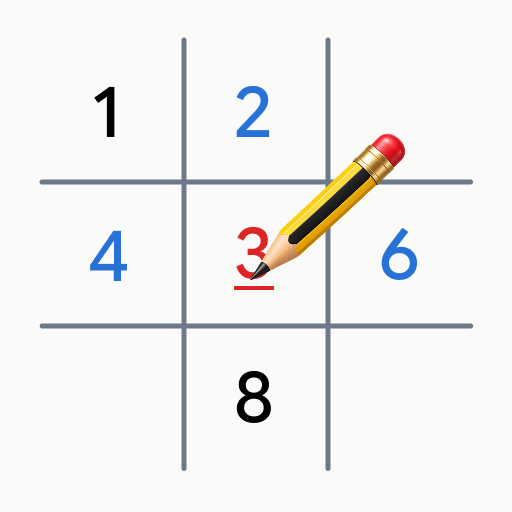
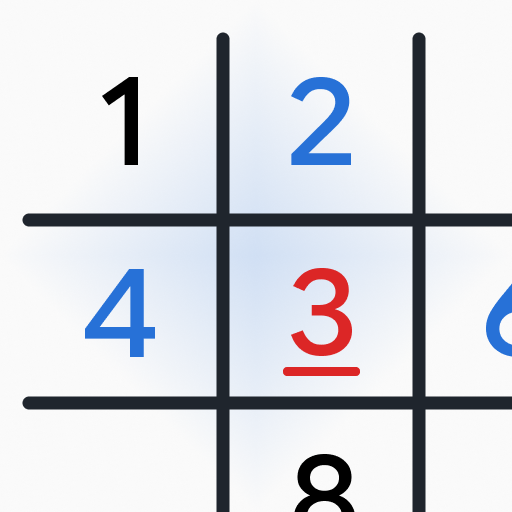
fix(web): improve app updates and save recovery
- activate new service workers immediately
- reload once after a successful web update
- retry transient save-loading failures
- recover from the previous validated snapshot
- add regression tests and update documentation

Changed region(s): [[0.0312, 0.0625, 1.0, 1.0]]

diff --git a/lib/features/privacy/presentation/privacy_policy_page.dart b/lib/features/privacy/presentation/privacy_policy_page.dart
@@ -106,11 +106,11 @@ final class _PrivacyPolicyPageState() extends State<PrivacyPolicyPage> {
                         ),
                         _PolicySection(
                           title: '5. Native app storage and permissions',
-                          body: 'Sudoku stores one versioned save snapshot through the shared_preferences package. On Android and Windows, that snapshot is kept in application storage managed by the operating system. It contains the locally saved game and preference information described above. It is not a remote database and is not synchronized between devices.\n\nThe Android release manifest requests no Android permissions, including no Internet, location, contacts, camera, microphone, photos, advertising identifier, or broad file-storage permission. Android automatic backup is disabled. Development and profile builds may use Internet access for Flutter development tooling; that permission is not part of the distributed release configuration.\n\nSudoku does not read the clipboard. If you explicitly copy selectable policy text, the operating system or browser handles that copy action. Optional haptic feedback asks the operating system to produce a vibration response but does not provide sensor data to Sudoku.',
+                          body: 'Sudoku stores a versioned current save snapshot and the previous validated recovery snapshot through the shared_preferences package. On Android and Windows, those snapshots are kept in application storage managed by the operating system. They contain the locally saved game and preference information described above. They are not a remote database and are not synchronized between devices.\n\nThe Android release manifest requests no Android permissions, including no Internet, location, contacts, camera, microphone, photos, advertising identifier, or broad file-storage permission. Android automatic backup is disabled. Development and profile builds may use Internet access for Flutter development tooling; that permission is not part of the distributed release configuration.\n\nSudoku does not read the clipboard. If you explicitly copy selectable policy text, the operating system or browser handles that copy action. Optional haptic feedback asks the operating system to produce a vibration response but does not provide sensor data to Sudoku.',
                         ),
                         _PolicySection(
                           title: '6. Web storage and offline operation',
-                          body: 'The web version stores the save snapshot in browser local storage. It also uses the browser\'s Cache Storage and a service worker to cache the compiled Flutter app, puzzle worker, fonts, icons, and other static files. This allows the app to work offline after a successful online visit. The cached app files are not a user profile.\n\nPuzzles are generated locally in a dedicated web worker. Requests sent between the page and that worker remain inside your browser and are not sent to a puzzle server. Sudoku does not add analytics scripts, advertising scripts, tracking pixels, social-media SDKs, or its own cookies. The release build hosts its app resources under the same GitHub Pages site rather than loading runtime resources from an external CDN.\n\nBrowser storage is controlled by your browser. It may be limited, evicted, cleared, exposed to browser extensions, or included in device or browser-profile backups according to settings outside Sudoku\'s control. Multiple open tabs are not synchronized and may overwrite the same local save.',
+                          body: 'The web version stores the current save snapshot and its previous validated recovery copy in browser local storage. It also uses the browser\'s Cache Storage and a service worker to cache the compiled Flutter app, puzzle worker, fonts, icons, and other static files. This allows the app to work offline after a successful online visit. The cached app files are not a user profile.\n\nPuzzles are generated locally in a dedicated web worker. Requests sent between the page and that worker remain inside your browser and are not sent to a puzzle server. Sudoku does not add analytics scripts, advertising scripts, tracking pixels, social-media SDKs, or its own cookies. The release build hosts its app resources under the same GitHub Pages site rather than loading runtime resources from an external CDN.\n\nBrowser storage is controlled by your browser. It may be limited, evicted, cleared, exposed to browser extensions, or included in device or browser-profile backups according to settings outside Sudoku\'s control. Multiple open tabs are not synchronized and may overwrite the same local save.',
                         ),
                         _PolicySection(
                           title: '7. GitHub Pages and web-request data',

diff --git a/lib/features/game/data/game_repository.dart b/lib/features/game/data/game_repository.dart
@@ -11,13 +11,24 @@ abstract interface class SnapshotStore() {
   Future<void> write(String value);
 }
 
+abstract interface class RecoverableSnapshotStore() implements SnapshotStore {
+  Future<String?> readRecovery();
+  Future<void> writeRecovery(String value);
+}
+
 final class PreferencesSnapshotStore(final SharedPreferencesAsync preferences)
-    implements SnapshotStore {
+    implements RecoverableSnapshotStore {
   static const key = 'sudoku.snapshot.v1';
+  static const recoveryKey = 'sudoku.snapshot.recovery.v1';
   @override
   Future<String?> read() => preferences.getString(key);
   @override
   Future<void> write(String value) => preferences.setString(key, value);
+  @override
+  Future<String?> readRecovery() => preferences.getString(recoveryKey);
+  @override
+  Future<void> writeRecovery(String value) =>
+      preferences.setString(recoveryKey, value);
 }
 
 final class const GameResult(
@@ -102,16 +113,65 @@ final class SavedGames({
 
 final class GameRepository(final SnapshotStore store) {
   Future<void> _pending = Future.value();
+  String? _lastKnownGood;
+
   Future<SavedGames> load() async {
-    final raw = await store.read();
-    return raw == null ? SavedGames() : SavedGames.decode(raw);
+    Object? primaryError;
+    StackTrace? primaryStackTrace;
+    try {
+      final raw = await _readWithRetry(store.read);
+      if (raw == null) return SavedGames();
+      final games = SavedGames.decode(raw);
+      _lastKnownGood = raw;
+      return games;
+    } catch (error, stackTrace) {
+      primaryError = error;
+      primaryStackTrace = stackTrace;
+    }
+
+    if (store case final RecoverableSnapshotStore recoverable) {
+      try {
+        final raw = await _readWithRetry(recoverable.readRecovery);
+        if (raw != null) {
+          final games = SavedGames.decode(raw);
+          _lastKnownGood = raw;
+          return games;
+        }
+      } catch (_) {
+        // Report the primary failure when neither validated copy can be loaded.
+      }
+    }
+    Error.throwWithStackTrace(primaryError, primaryStackTrace);
   }
 
   Future<void> save(SavedGames games) {
     final snapshot = games.encode();
     // Serialize writes. A failed write must not poison subsequent retries.
-    final result = _pending.then((_) => store.write(snapshot));
+    final result = _pending.then((_) async {
+      if (store case final RecoverableSnapshotStore recoverable) {
+        if (_lastKnownGood case final previous?) {
+          await recoverable.writeRecovery(previous);
+        }
+      }
+      await store.write(snapshot);
+      _lastKnownGood = snapshot;
+    });
     _pending = result.then<void>((_) {}, onError: (Object _, StackTrace _) {});
     return result;
+  }
+
+  static Future<String?> _readWithRetry(Future<String?> Function() read) async {
+    Object? lastError;
+    StackTrace? lastStackTrace;
+    for (var attempt = 0; attempt < 3; attempt++) {
+      try {
+        return await read();
+      } catch (error, stackTrace) {
+        lastError = error;
+        lastStackTrace = stackTrace;
+        if (attempt < 2) await Future<void>.delayed(Duration.zero);
+      }
+    }
+    Error.throwWithStackTrace(lastError!, lastStackTrace!);
   }
 }

diff --git a/test/storage_controller_test.dart b/test/storage_controller_test.dart
@@ -29,6 +29,30 @@ final class MemoryStore() implements SnapshotStore {
   }
 }
 
+final class RecoverableMemoryStore() implements RecoverableSnapshotStore {
+  String? value;
+  String? recovery;
+  int remainingReadFailures = 0;
+
+  @override
+  Future<String?> read() async {
+    if (remainingReadFailures > 0) {
+      remainingReadFailures--;
+      throw StateError('transient read failure');
+    }
+    return value;
+  }
+
+  @override
+  Future<String?> readRecovery() async => recovery;
+
+  @override
+  Future<void> write(String snapshot) async => value = snapshot;
+
+  @override
+  Future<void> writeRecovery(String snapshot) async => recovery = snapshot;
+}
+
 void main() {
   test('disposing during generation leaves the saved game untouched', () async {
     final puzzle = await SudokuEngine().generate(
@@ -95,6 +119,41 @@ void main() {
     await controller.initialize();
     expect(controller.ready, true);
     controllerHarness.dispose();
+  });
+  test('transient read failures are retried before showing an error', () async {
+    final expected = SavedGames(settings: const AppSettings(showTimer: false));
+    final store = RecoverableMemoryStore()
+      ..value = expected.encode()
+      ..remainingReadFailures = 2;
+
+    final loaded = await GameRepository(store).load();
+
+    expect(loaded.settings.showTimer, false);
+    expect(store.remainingReadFailures, 0);
+  });
+  test('a corrupt primary snapshot falls back to the recovery copy', () async {
+    final recovery = SavedGames(settings: const AppSettings(showTimer: false));
+    final store = RecoverableMemoryStore()
+      ..value = 'corrupt data'
+      ..recovery = recovery.encode();
+
+    final loaded = await GameRepository(store).load();
+
+    expect(loaded.settings.showTimer, false);
+    expect(store.value, 'corrupt data');
+  });
+  test('saving keeps the previous validated snapshot for recovery', () async {
+    final original = SavedGames();
+    final store = RecoverableMemoryStore()..value = original.encode();
+    final repository = GameRepository(store);
+    await repository.load();
+
+    await repository.save(
+      SavedGames(settings: const AppSettings(showTimer: false)),
+    );
+
+    expect(store.recovery, original.encode());
+    expect(SavedGames.decode(store.value!).settings.showTimer, false);
   });
   test('write failures are visible and retries recover', () async {
     final store = MemoryStore();

diff --git a/.github/prepare_web.dart b/.github/prepare_web.dart
@@ -37,10 +37,23 @@ Future<void> main(List<String> arguments) async {
   await File('${directory.path}/offline_bootstrap.js').writeAsString("""
 if ('serviceWorker' in navigator) {
   window.addEventListener('load', () => {
+    const hadController = navigator.serviceWorker.controller !== null;
+    let refreshing = false;
+    try {
+      refreshing = sessionStorage.getItem('sudoku-sw-reload') === '1';
+      sessionStorage.removeItem('sudoku-sw-reload');
+    } catch (_) {}
+    navigator.serviceWorker.addEventListener('controllerchange', () => {
+      if (!hadController || refreshing) return;
+      refreshing = true;
+      try { sessionStorage.setItem('sudoku-sw-reload', '1'); } catch (_) {}
+      window.location.reload();
+    });
     navigator.serviceWorker.register(new URL('sudoku-sw.js', document.baseURI), {
       scope: new URL('.', document.baseURI).pathname,
       updateViaCache: 'none'
-    }).catch((error) => console.warn('Offline cache unavailable', error));
+    }).then(registration => registration.update())
+      .catch((error) => console.warn('Offline cache unavailable', error));
   });
 }
 """);
@@ -95,6 +108,7 @@ self.addEventListener('install', event => {
       await caches.delete(CACHE);
       throw error;
     }
+    await self.skipWaiting();
   })());
 });
 self.addEventListener('activate', event => {

diff --git a/docs/RELEASING.md b/docs/RELEASING.md
@@ -45,7 +45,7 @@ node --test test/background_worker_test.cjs
 
 Publish **build/web**, not the source `web` directory. Local fonts and CanvasKit are bundled; bootstrap configuration keeps renderer and fallback-font requests on the same origin. Build preparation compiles the dedicated puzzle worker, then generates the content-versioned offline service worker and its registration. Both workers support repository subpaths. Do not omit preparation: puzzle generation requires `sudoku_worker.js` and does not fall back to blocking the UI thread. For Web debug runs, compile `lib/features/game/data/puzzle_worker.dart` to `web/sudoku_worker.js` with `dart compile js -O2` before starting Flutter.
 
-The first visit requires a connection and enough time to cache all resources. Subsequent launches can work offline after caching has succeeded. Browser eviction/private mode/storage policies can still remove the cache. HTTPS or localhost is required for service workers. New versions activate after all tabs using the previous version are closed; don't force-reload an in-progress game just to update.
+The first visit requires a connection and enough time to cache all resources. Subsequent launches can work offline after caching has succeeded. Browser eviction/private mode/storage policies can still remove the cache. HTTPS or localhost is required for service workers. Once all files for a new version are cached, its worker activates immediately and an already controlled page reloads once so the release is applied without waiting for every old tab to close.
 
 The `Publish GitHub Pages` workflow runs automatically on pushes to `main`, or manually with `main` selected. Enable **Settings → Pages → Build and deployment → Source → GitHub Actions** once in the repository. No personal access token is required. Protect the `github-pages` environment to allow deployments from `main` only; manual runs on other branches are skipped by the workflow.
 

diff --git a/README.md b/README.md
@@ -1,5 +1,5 @@
 <p align="center">
-  <img src="assets/app_icon.png" alt="Sudoku app icon" width="112" height="112" />
+  <img src="assets/app_icon.png" alt="Sudoku app icon" width="112" height="112"/>
 </p>
 
 <h1 align="center">Sudoku</h1>
@@ -62,7 +62,7 @@ The generator grades puzzles by the techniques needed to solve them, not just by
 
 Sudoku has no account, ads, analytics or cloud game service. Puzzles are generated locally, and your games, statistics and settings stay on your device.
 
-The Web version needs one successful online visit before it can work offline. Clearing the app data or browser storage also clears saved games; cloud sync and backup/export are not available. See the [Privacy Policy](https://ztomz.github.io/Sudoku/#/privacy-policy) or the [technical data inventory](docs/DATA.md) for the details.
+The Web version needs one successful online visit before it can work offline. New releases activate automatically and may reload the page once after their offline files are ready. Saves are kept locally with a previous validated recovery snapshot, but clearing app data or browser storage removes both; cloud sync and backup/export are not available. See the [Privacy Policy](https://ztomz.github.io/Sudoku/#/privacy-policy) or the [technical data inventory](docs/DATA.md) for the details.
 
 ## Platforms
 

diff --git a/docs/DATA.md b/docs/DATA.md
@@ -3,7 +3,7 @@
 This is a technical inventory, not a completed Store privacy policy.
 
 - No login, backend, analytics, advertising SDK, network game generation or cloud synchronization.
-- Games, notes, undo history, time, preferences and completion results are stored locally through shared_preferences.
+- Games, notes, undo history, time, preferences and completion results are stored locally through shared_preferences. The current validated snapshot and its previous validated recovery copy are retained so a damaged current value can fall back locally.
 - Android release has no Internet permission; automatic Android backup is disabled.
 - Windows uses the plugin's local/roaming application-data location.
 - Web uses browser local storage for saves and Cache Storage for the offline app.
